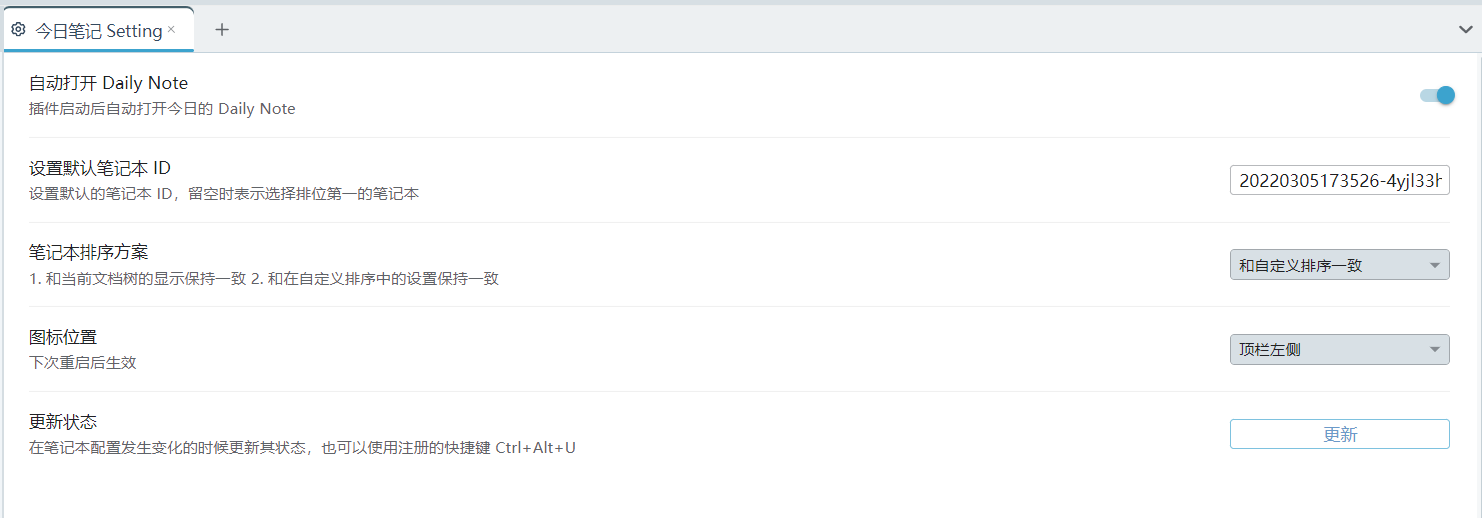
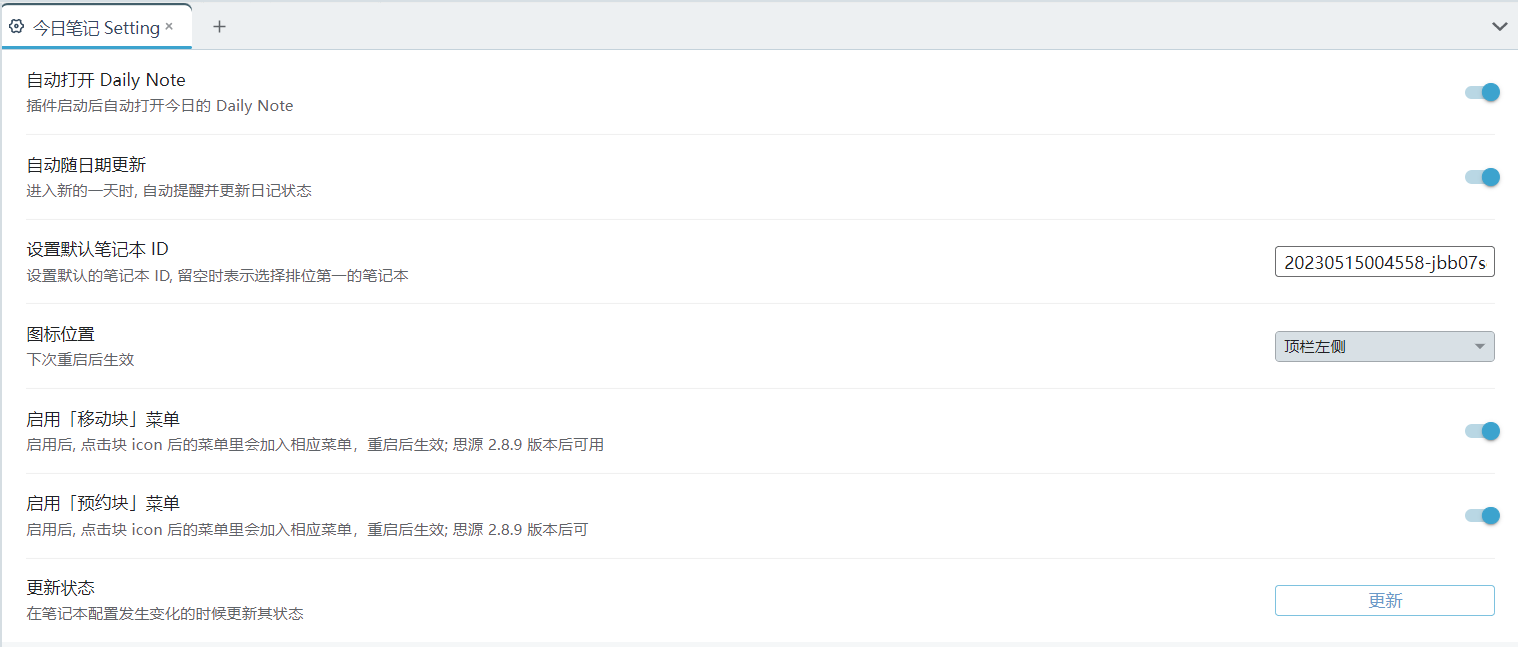
setting.png

diff --git a/README.md b/README.md
@@ -125,7 +125,7 @@
 
 ### 6. 设置面板
 
-> 下面这张图很老了, 具体的设置内容以软件内部为准
+> 具体的设置内容以软件内部为准
 
 ![](asset/Setting.png)
 
